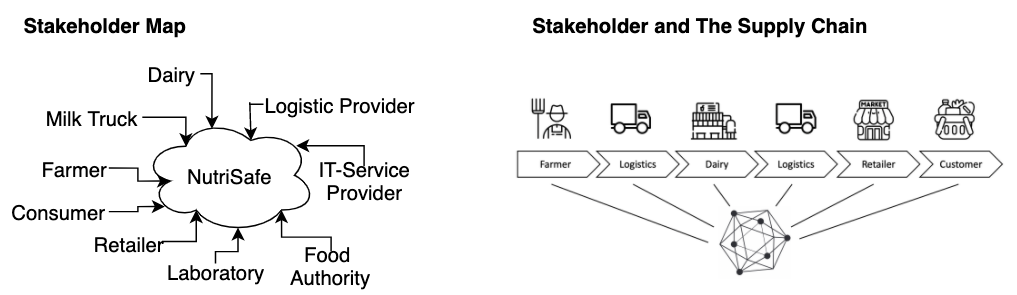
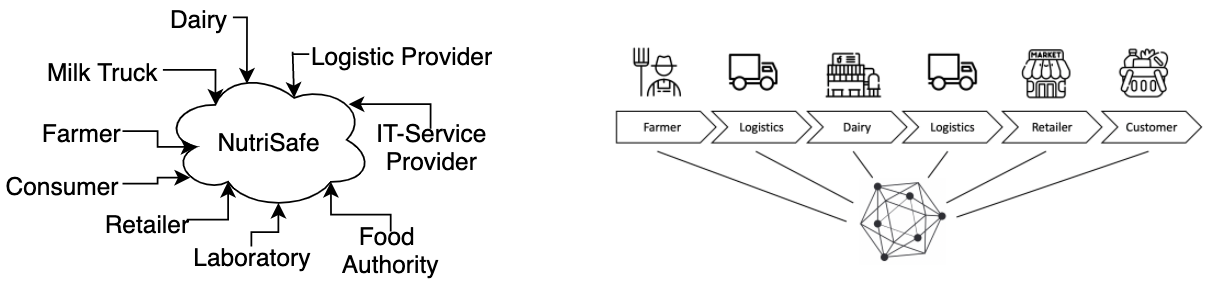
text brick - Architecture Layers

diff --git a/README.md b/README.md
@@ -3,13 +3,13 @@
 ### Business Architecture
 <figure>
   <img src="./pictures/stakeholder_maps.png"
-     width="1000"
+     width="100%"
      alt="Markdown Monster icon"
      style="float: left; margin-right: 10px;"/>
   <figcaption>
-  Fig. X: General Stakeholder Map (left)
+  Fig. X: Stakeholder map for the cheese supply chain (left)
 
-  Fig. Y: Stakeholder Map for the supply chain case (right)
+  Fig. Y: Supply chain access to the blockchain (right)
   </figcaption>
 </figure>
 <p align="justify">
@@ -19,16 +19,34 @@ The supply chain depicted in Fig. Y starts with the milk farm. The milk farm han
 
 ### Architecture Layers
 
-
-<img src="./pictures/actors_IS_DLT.png"
-     width="1000"
+<figure>
+  <img src="./pictures/actors_IS_DLT.png"
+     width="100%"
      alt="Markdown Monster icon"
      style="float: left; margin-right: 10px;" /> 
+  <figcaption>
+  Fig. X: Conceptual architecture of a DLT-based supply chain
+  </figcaption>
+</figure>
+
+<p align="justify">
+The conceptual architecture of a blockchain as infrastructure is depicted in Fig. X Actors have their information systems: ERP Systems, customer relationship management systems (CRM), herd management systems (HMS), and systems used by logistics service providers to manage transportation.
+<br>
+Note that the depicted supply chain is quite linear. In reality, there are many farmers, logistics service providers, production facilities, wholesalers, and retailers that participate in a supply chain. An analysis of the scenarios resulted in requirements and design decisions.
+</p>
+
+
 <p align="center">
+<figure>
 <img src="./pictures/architecture_interface_layers.png"
      width="500"
      alt="Markdown Monster icon"
      style="float: left; margin-right: 10px;" /> 
+    <figcaption>
+     Fig. Y: The layered architecture to bridge between applications and blockchain network
+    </figcaption>
+</figure>
+
 </p>
 
 Reference to ICBC paper
@@ -36,7 +54,7 @@ Reference to ICBC paper
 ### Channel Topology
 
 <img src="./pictures/channel_topology.png"
-     width="1000"
+     width="100%"
      alt="Markdown Monster icon"
      style="float: left; margin-right: 10px;" /> 
 
@@ -44,19 +62,19 @@ Reference to ICBC paper
 ### APIs
 
 #### REST API
-
+<p align="center">
 <img src="./pictures/rest_api_component_model.png"
      width="500"
      alt="Markdown Monster icon"
      style="float: left; margin-right: 10px;" /> 
-
+</p>
 #### MQTT API
-
+<p align="center">
 <img src="./pictures/mqtt_api.png"
      width="500"
      alt="Markdown Monster icon"
      style="float: left; margin-right: 10px;" /> 
-
+</p>
 Reference to I4CS paper
      
 
@@ -65,16 +83,17 @@ Reference to I4CS paper
 ### Blockchain Operations Framework
 
 #### Blockchain Operations Categories
-
+<p align="center">
 <img src="./pictures/blockchain_operations_categories.png"
      width="500"
      alt="Markdown Monster icon"
      style="float: left; margin-right: 10px;" /> 
+</p>
 
 Reference to DAPPS paper
 
 <img src="./pictures/onboarding_a_new_org.png"
-     width="1000"
+     width="100%"
      alt="Markdown Monster icon"
      style="float: left; margin-right: 10px;" /> 
 
